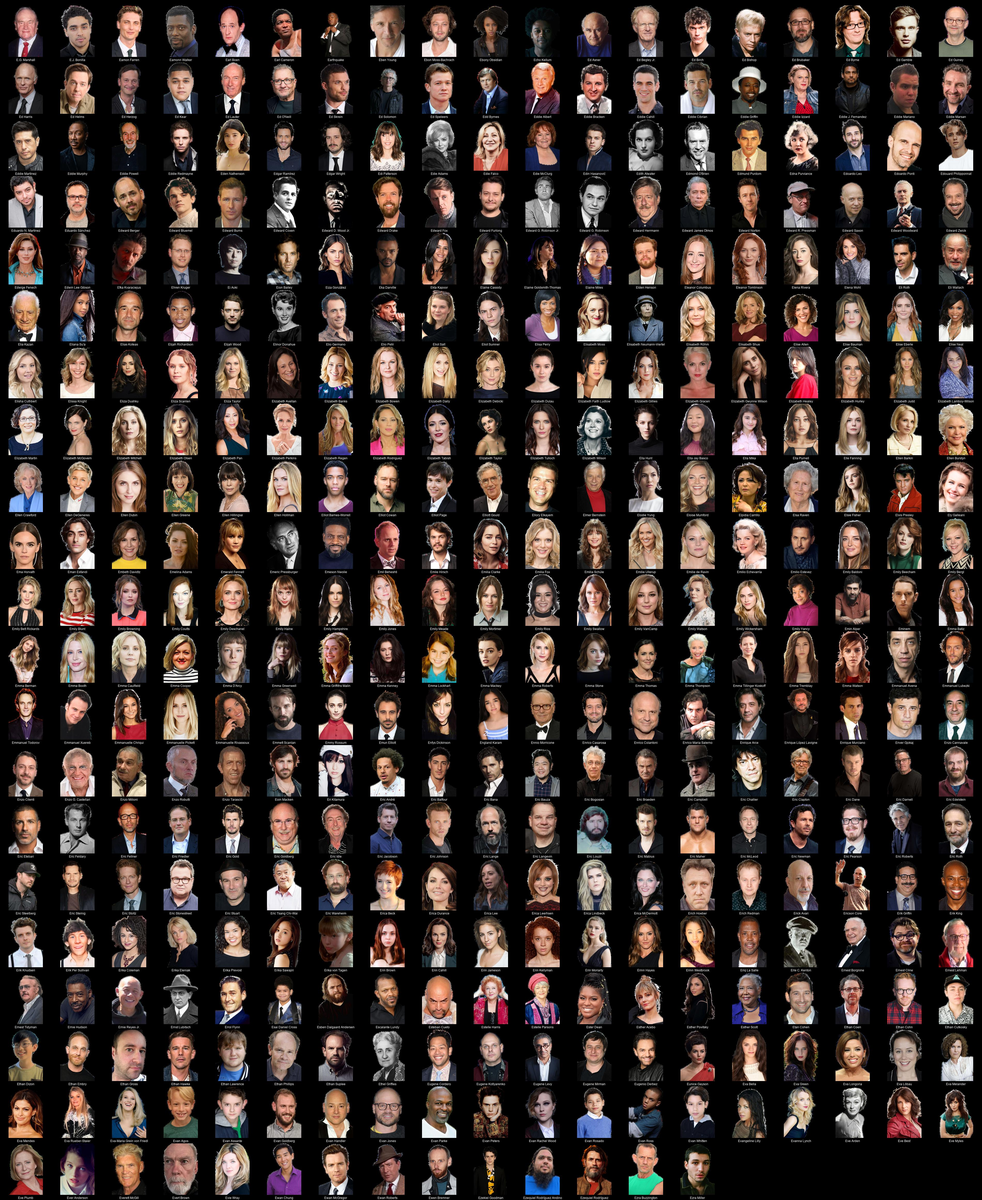
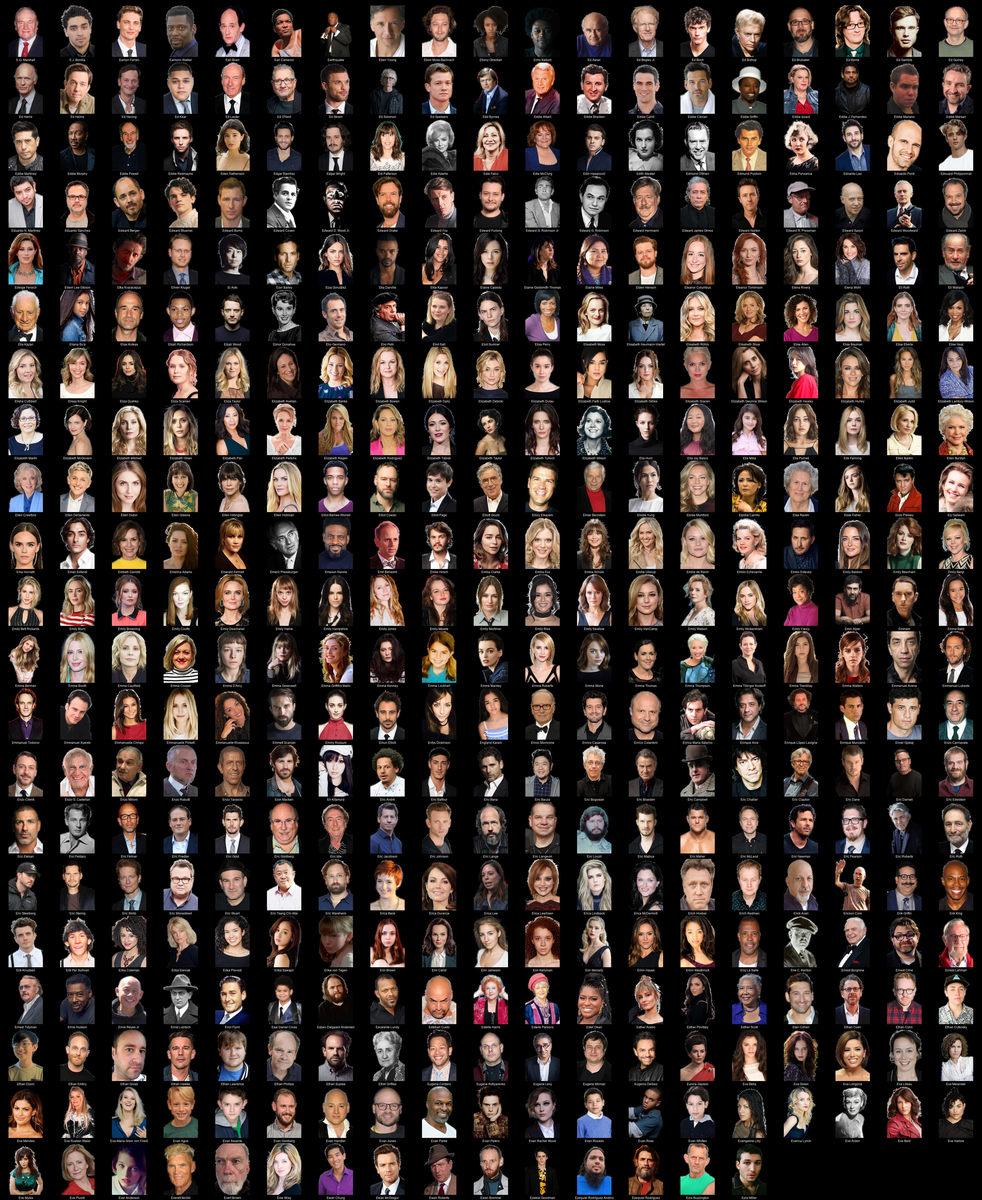
more peeps

Changed region(s): [[0.0, 0.9375, 0.7763, 1.0], [0.9626, 0.9062, 0.9937, 0.9688]]

diff --git a/README.md b/README.md
@@ -1,4 +1,4 @@
-# Kometa People Images - Transparent (transparent) (11014 Images)
+# Kometa People Images - Transparent (transparent) (11024 Images)
 
 <details><summary><a href="'">' (1 Images)</a></summary>
 
@@ -904,7 +904,7 @@
 * [Azhar Usman](https://raw.githubusercontent.com/Kometa-Team/People-Images-transparent/master/A/Images/Azhar%20Usman.png)
 * [Aziz Ansari](https://raw.githubusercontent.com/Kometa-Team/People-Images-transparent/master/A/Images/Aziz%20Ansari.png)
 </details>
-<details><summary><a href="B">B (552 Images)</a></summary>
+<details><summary><a href="B">B (553 Images)</a></summary>
 
 * [B.F. Blinn](https://raw.githubusercontent.com/Kometa-Team/People-Images-transparent/master/B/Images/B.F.%20Blinn.png)
 * [B.J. Penn](https://raw.githubusercontent.com/Kometa-Team/People-Images-transparent/master/B/Images/B.J.%20Penn.png)
@@ -967,6 +967,7 @@
 * [Barry Sloane](https://raw.githubusercontent.com/Kometa-Team/People-Images-transparent/master/B/Images/Barry%20Sloane.png)
 * [Barry Sonnenfeld](https://raw.githubusercontent.com/Kometa-Team/People-Images-transparent/master/B/Images/Barry%20Sonnenfeld.png)
 * [Barry Watson](https://raw.githubusercontent.com/Kometa-Team/People-Images-transparent/master/B/Images/Barry%20Watson.png)
+* [Barry Williams](https://raw.githubusercontent.com/Kometa-Team/People-Images-transparent/master/B/Images/Barry%20Williams.png)
 * [Bashir Salahuddin](https://raw.githubusercontent.com/Kometa-Team/People-Images-transparent/master/B/Images/Bashir%20Salahuddin.png)
 * [Basil Iwanyk](https://raw.githubusercontent.com/Kometa-Team/People-Images-transparent/master/B/Images/Basil%20Iwanyk.png)
 * [Basil Rathbone](https://raw.githubusercontent.com/Kometa-Team/People-Images-transparent/master/B/Images/Basil%20Rathbone.png)
@@ -1459,7 +1460,7 @@
 * [Béla Tarr](https://raw.githubusercontent.com/Kometa-Team/People-Images-transparent/master/B/Images/B%C3%A9la%20Tarr.png)
 * [Bérénice Bejo](https://raw.githubusercontent.com/Kometa-Team/People-Images-transparent/master/B/Images/B%C3%A9r%C3%A9nice%20Bejo.png)
 </details>
-<details><summary><a href="C">C (704 Images)</a></summary>
+<details><summary><a href="C">C (705 Images)</a></summary>
 
 * [C. Robert Cargill](https://raw.githubusercontent.com/Kometa-Team/People-Images-transparent/master/C/Images/C.%20Robert%20Cargill.png)
 * [C. S. Forester](https://raw.githubusercontent.com/Kometa-Team/People-Images-transparent/master/C/Images/C.%20S.%20Forester.png)
@@ -2150,6 +2151,7 @@
 * [Cristela Alonzo](https://raw.githubusercontent.com/Kometa-Team/People-Images-transparent/master/C/Images/Cristela%20Alonzo.png)
 * [Cristen Kauffman](https://raw.githubusercontent.com/Kometa-Team/People-Images-transparent/master/C/Images/Cristen%20Kauffman.png)
 * [Cristian Mungiu](https://raw.githubusercontent.com/Kometa-Team/People-Images-transparent/master/C/Images/Cristian%20Mungiu.png)
+* [Cristie Whiles](https://raw.githubusercontent.com/Kometa-Team/People-Images-transparent/master/C/Images/Cristie%20Whiles.png)
 * [Cristin Milioti](https://raw.githubusercontent.com/Kometa-Team/People-Images-transparent/master/C/Images/Cristin%20Milioti.png)
 * [Cristina Rodlo](https://raw.githubusercontent.com/Kometa-Team/People-Images-transparent/master/C/Images/Cristina%20Rodlo.png)
 * [Cristo Fernández](https://raw.githubusercontent.com/Kometa-Team/People-Images-transparent/master/C/Images/Cristo%20Fern%C3%A1ndez.png)
@@ -4284,7 +4286,7 @@
 * [Izaac Wang](https://raw.githubusercontent.com/Kometa-Team/People-Images-transparent/master/I/Images/Izaac%20Wang.png)
 * [Izabella Scorupco](https://raw.githubusercontent.com/Kometa-Team/People-Images-transparent/master/I/Images/Izabella%20Scorupco.png)
 </details>
-<details><summary><a href="J">J (1349 Images)</a></summary>
+<details><summary><a href="J">J (1350 Images)</a></summary>
 
 * [J'Dvonte](https://raw.githubusercontent.com/Kometa-Team/People-Images-transparent/master/J/Images/J%27Dvonte.png)
 * [J. A. Bayona](https://raw.githubusercontent.com/Kometa-Team/People-Images-transparent/master/J/Images/J.%20A.%20Bayona.png)
@@ -4806,6 +4808,7 @@
 * [Jenson Button](https://raw.githubusercontent.com/Kometa-Team/People-Images-transparent/master/J/Images/Jenson%20Button.png)
 * [Jenson Cheng](https://raw.githubusercontent.com/Kometa-Team/People-Images-transparent/master/J/Images/Jenson%20Cheng.png)
 * [Jeon Eun-jin](https://raw.githubusercontent.com/Kometa-Team/People-Images-transparent/master/J/Images/Jeon%20Eun-jin.png)
+* [Jerami Cruise](https://raw.githubusercontent.com/Kometa-Team/People-Images-transparent/master/J/Images/Jerami%20Cruise.png)
 * [Jeremiah Bitsui](https://raw.githubusercontent.com/Kometa-Team/People-Images-transparent/master/J/Images/Jeremiah%20Bitsui.png)
 * [Jeremy Allen White](https://raw.githubusercontent.com/Kometa-Team/People-Images-transparent/master/J/Images/Jeremy%20Allen%20White.png)
 * [Jeremy Bulloch](https://raw.githubusercontent.com/Kometa-Team/People-Images-transparent/master/J/Images/Jeremy%20Bulloch.png)
@@ -6668,7 +6671,7 @@
 * [Léa Seydoux](https://raw.githubusercontent.com/Kometa-Team/People-Images-transparent/master/L/Images/L%C3%A9a%20Seydoux.png)
 * [Lúcio Andrey](https://raw.githubusercontent.com/Kometa-Team/People-Images-transparent/master/L/Images/L%C3%BAcio%20Andrey.png)
 </details>
-<details><summary><a href="M">M (1034 Images)</a></summary>
+<details><summary><a href="M">M (1037 Images)</a></summary>
 
 * [M'laah Kaur Singh](https://raw.githubusercontent.com/Kometa-Team/People-Images-transparent/master/M/Images/M%27laah%20Kaur%20Singh.png)
 * [M. Emmet Walsh](https://raw.githubusercontent.com/Kometa-Team/People-Images-transparent/master/M/Images/M.%20Emmet%20Walsh.png)
@@ -6846,6 +6849,7 @@
 * [Maria Howell](https://raw.githubusercontent.com/Kometa-Team/People-Images-transparent/master/M/Images/Maria%20Howell.png)
 * [Maria Thayer](https://raw.githubusercontent.com/Kometa-Team/People-Images-transparent/master/M/Images/Maria%20Thayer.png)
 * [Mariah Carey](https://raw.githubusercontent.com/Kometa-Team/People-Images-transparent/master/M/Images/Mariah%20Carey.png)
+* [Marian Dora](https://raw.githubusercontent.com/Kometa-Team/People-Images-transparent/master/M/Images/Marian%20Dora.png)
 * [Marian Lorencik](https://raw.githubusercontent.com/Kometa-Team/People-Images-transparent/master/M/Images/Marian%20Lorencik.png)
 * [Mariana Mazza](https://raw.githubusercontent.com/Kometa-Team/People-Images-transparent/master/M/Images/Mariana%20Mazza.png)
 * [Mariangela Giordano](https://raw.githubusercontent.com/Kometa-Team/People-Images-transparent/master/M/Images/Mariangela%20Giordano.png)
@@ -7163,6 +7167,7 @@
 * [Maude Apatow](https://raw.githubusercontent.com/Kometa-Team/People-Images-transparent/master/M/Images/Maude%20Apatow.png)
 * [Maulik Pancholy](https://raw.githubusercontent.com/Kometa-Team/People-Images-transparent/master/M/Images/Maulik%20Pancholy.png)
 * [Maura Tierney](https://raw.githubusercontent.com/Kometa-Team/People-Images-transparent/master/M/Images/Maura%20Tierney.png)
+* [Maureen McCormick](https://raw.githubusercontent.com/Kometa-Team/People-Images-transparent/master/M/Images/Maureen%20McCormick.png)
 * [Maureen Van Zandt](https://raw.githubusercontent.com/Kometa-Team/People-Images-transparent/master/M/Images/Maureen%20Van%20Zandt.png)
 * [Maurice Compte](https://raw.githubusercontent.com/Kometa-Team/People-Images-transparent/master/M/Images/Maurice%20Compte.png)
 * [Maurice Jarre](https://raw.githubusercontent.com/Kometa-Team/People-Images-transparent/master/M/Images/Maurice%20Jarre.png)
@@ -7555,6 +7560,7 @@
 * [Mike Kellin](https://raw.githubusercontent.com/Kometa-Team/People-Images-transparent/master/M/Images/Mike%20Kellin.png)
 * [Mike Leigh](https://raw.githubusercontent.com/Kometa-Team/People-Images-transparent/master/M/Images/Mike%20Leigh.png)
 * [Mike Lockwood](https://raw.githubusercontent.com/Kometa-Team/People-Images-transparent/master/M/Images/Mike%20Lockwood.png)
+* [Mike Lookinland](https://raw.githubusercontent.com/Kometa-Team/People-Images-transparent/master/M/Images/Mike%20Lookinland.png)
 * [Mike Mitchell](https://raw.githubusercontent.com/Kometa-Team/People-Images-transparent/master/M/Images/Mike%20Mitchell.png)
 * [Mike Myers](https://raw.githubusercontent.com/Kometa-Team/People-Images-transparent/master/M/Images/Mike%20Myers.png)
 * [Mike Müller](https://raw.githubusercontent.com/Kometa-Team/People-Images-transparent/master/M/Images/Mike%20M%C3%BCller.png)
@@ -9247,7 +9253,7 @@
 * [Ryusei Nakao](https://raw.githubusercontent.com/Kometa-Team/People-Images-transparent/master/R/Images/Ryusei%20Nakao.png)
 * [Ryusuke Hamaguchi](https://raw.githubusercontent.com/Kometa-Team/People-Images-transparent/master/R/Images/Ryusuke%20Hamaguchi.png)
 </details>
-<details><summary><a href="S">S (782 Images)</a></summary>
+<details><summary><a href="S">S (785 Images)</a></summary>
 
 * [S. S. Rajamouli](https://raw.githubusercontent.com/Kometa-Team/People-Images-transparent/master/S/Images/S.%20S.%20Rajamouli.png)
 * [Saagar Shaikh](https://raw.githubusercontent.com/Kometa-Team/People-Images-transparent/master/S/Images/Saagar%20Shaikh.png)
@@ -9840,6 +9846,7 @@
 * [Steno](https://raw.githubusercontent.com/Kometa-Team/People-Images-transparent/master/S/Images/Steno.png)
 * [Stephan Kampwirth](https://raw.githubusercontent.com/Kometa-Team/People-Images-transparent/master/S/Images/Stephan%20Kampwirth.png)
 * [Stephanie Beatriz](https://raw.githubusercontent.com/Kometa-Team/People-Images-transparent/master/S/Images/Stephanie%20Beatriz.png)
+* [Stephanie Cole](https://raw.githubusercontent.com/Kometa-Team/People-Images-transparent/master/S/Images/Stephanie%20Cole.png)
 * [Stephanie Corneliussen](https://raw.githubusercontent.com/Kometa-Team/People-Images-transparent/master/S/Images/Stephanie%20Corneliussen.png)
 * [Stephanie Czajkowski](https://raw.githubusercontent.com/Kometa-Team/People-Images-transparent/master/S/Images/Stephanie%20Czajkowski.png)
 * [Stephanie Hsu](https://raw.githubusercontent.com/Kometa-Team/People-Images-transparent/master/S/Images/Stephanie%20Hsu.png)
@@ -9985,11 +9992,13 @@
 * [Supriya Shukla](https://raw.githubusercontent.com/Kometa-Team/People-Images-transparent/master/S/Images/Supriya%20Shukla.png)
 * [Suraj Sharma](https://raw.githubusercontent.com/Kometa-Team/People-Images-transparent/master/S/Images/Suraj%20Sharma.png)
 * [Suranne Jones](https://raw.githubusercontent.com/Kometa-Team/People-Images-transparent/master/S/Images/Suranne%20Jones.png)
+* [Susan A. Olsen](https://raw.githubusercontent.com/Kometa-Team/People-Images-transparent/master/S/Images/Susan%20A.%20Olsen.png)
 * [Susan Beaubian](https://raw.githubusercontent.com/Kometa-Team/People-Images-transparent/master/S/Images/Susan%20Beaubian.png)
 * [Susan Downey](https://raw.githubusercontent.com/Kometa-Team/People-Images-transparent/master/S/Images/Susan%20Downey.png)
 * [Susan Kelechi Watson](https://raw.githubusercontent.com/Kometa-Team/People-Images-transparent/master/S/Images/Susan%20Kelechi%20Watson.png)
 * [Susan Luckey](https://raw.githubusercontent.com/Kometa-Team/People-Images-transparent/master/S/Images/Susan%20Luckey.png)
 * [Susan Lynch](https://raw.githubusercontent.com/Kometa-Team/People-Images-transparent/master/S/Images/Susan%20Lynch.png)
+* [Susan Olsen](https://raw.githubusercontent.com/Kometa-Team/People-Images-transparent/master/S/Images/Susan%20Olsen.png)
 * [Susan Sarandon](https://raw.githubusercontent.com/Kometa-Team/People-Images-transparent/master/S/Images/Susan%20Sarandon.png)
 * [Susan Traylor](https://raw.githubusercontent.com/Kometa-Team/People-Images-transparent/master/S/Images/Susan%20Traylor.png)
 * [Susan Ward](https://raw.githubusercontent.com/Kometa-Team/People-Images-transparent/master/S/Images/Susan%20Ward.png)
@@ -10725,7 +10734,7 @@
 * [Von Lewis](https://raw.githubusercontent.com/Kometa-Team/People-Images-transparent/master/V/Images/Von%20Lewis.png)
 * [Věra Chytilová](https://raw.githubusercontent.com/Kometa-Team/People-Images-transparent/master/V/Images/V%C4%9Bra%20Chytilov%C3%A1.png)
 </details>
-<details><summary><a href="W">W (192 Images)</a></summary>
+<details><summary><a href="W">W (193 Images)</a></summary>
 
 * [W. Bruce Cameron](https://raw.githubusercontent.com/Kometa-Team/People-Images-transparent/master/W/Images/W.%20Bruce%20Cameron.png)
 * [W. Earl Brown](https://raw.githubusercontent.com/Kometa-Team/People-Images-transparent/master/W/Images/W.%20Earl%20Brown.png)
@@ -10829,6 +10838,7 @@
 * [Willard Huyck](https://raw.githubusercontent.com/Kometa-Team/People-Images-transparent/master/W/Images/Willard%20Huyck.png)
 * [Willeke van Ammelrooy](https://raw.githubusercontent.com/Kometa-Team/People-Images-transparent/master/W/Images/Willeke%20van%20Ammelrooy.png)
 * [Willem Dafoe](https://raw.githubusercontent.com/Kometa-Team/People-Images-transparent/master/W/Images/Willem%20Dafoe.png)
+* [Willi Ninja](https://raw.githubusercontent.com/Kometa-Team/People-Images-transparent/master/W/Images/Willi%20Ninja.png)
 * [William 'Billy' Costello](https://raw.githubusercontent.com/Kometa-Team/People-Images-transparent/master/W/Images/William%20%27Billy%27%20Costello.png)
 * [William A. Seiter](https://raw.githubusercontent.com/Kometa-Team/People-Images-transparent/master/W/Images/William%20A.%20Seiter.png)
 * [William A. Wellman](https://raw.githubusercontent.com/Kometa-Team/People-Images-transparent/master/W/Images/William%20A.%20Wellman.png)

diff --git a/J/README.md b/J/README.md
@@ -1,4 +1,4 @@
-# Kometa People Images - Transparent (transparent) - J (1350 Images)
+# Kometa People Images - Transparent (transparent) - J (1356 Images)
 ![Grid](grid.jpg)
 
 * [J'Dvonte](https://raw.githubusercontent.com/Kometa-Team/People-Images-transparent/master/J/Images/J%27Dvonte.png)
@@ -230,6 +230,7 @@
 * [Jamie Chung](https://raw.githubusercontent.com/Kometa-Team/People-Images-transparent/master/J/Images/Jamie%20Chung.png)
 * [Jamie Demetriou](https://raw.githubusercontent.com/Kometa-Team/People-Images-transparent/master/J/Images/Jamie%20Demetriou.png)
 * [Jamie Foxx](https://raw.githubusercontent.com/Kometa-Team/People-Images-transparent/master/J/Images/Jamie%20Foxx.png)
+* [Jamie Goehring](https://raw.githubusercontent.com/Kometa-Team/People-Images-transparent/master/J/Images/Jamie%20Goehring.png)
 * [Jamie Hector](https://raw.githubusercontent.com/Kometa-Team/People-Images-transparent/master/J/Images/Jamie%20Hector.png)
 * [Jamie Kennedy](https://raw.githubusercontent.com/Kometa-Team/People-Images-transparent/master/J/Images/Jamie%20Kennedy.png)
 * [Jamie Lee Curtis](https://raw.githubusercontent.com/Kometa-Team/People-Images-transparent/master/J/Images/Jamie%20Lee%20Curtis.png)
@@ -998,6 +999,7 @@
 * [Johnathon Schaech](https://raw.githubusercontent.com/Kometa-Team/People-Images-transparent/master/J/Images/Johnathon%20Schaech.png)
 * [Johnnie To](https://raw.githubusercontent.com/Kometa-Team/People-Images-transparent/master/J/Images/Johnnie%20To.png)
 * [Johnny 'Bananas' Devenanzio](https://raw.githubusercontent.com/Kometa-Team/People-Images-transparent/master/J/Images/Johnny%20%27Bananas%27%20Devenanzio.png)
+* [Johnny Bennett](https://raw.githubusercontent.com/Kometa-Team/People-Images-transparent/master/J/Images/Johnny%20Bennett.png)
 * [Johnny Cash](https://raw.githubusercontent.com/Kometa-Team/People-Images-transparent/master/J/Images/Johnny%20Cash.png)
 * [Johnny Depp](https://raw.githubusercontent.com/Kometa-Team/People-Images-transparent/master/J/Images/Johnny%20Depp.png)
 * [Johnny Flynn](https://raw.githubusercontent.com/Kometa-Team/People-Images-transparent/master/J/Images/Johnny%20Flynn.png)
@@ -1057,6 +1059,7 @@
 * [Jonathan Aris](https://raw.githubusercontent.com/Kometa-Team/People-Images-transparent/master/J/Images/Jonathan%20Aris.png)
 * [Jonathan Bailey](https://raw.githubusercontent.com/Kometa-Team/People-Images-transparent/master/J/Images/Jonathan%20Bailey.png)
 * [Jonathan Banks](https://raw.githubusercontent.com/Kometa-Team/People-Images-transparent/master/J/Images/Jonathan%20Banks.png)
+* [Jonathan Bennett](https://raw.githubusercontent.com/Kometa-Team/People-Images-transparent/master/J/Images/Jonathan%20Bennett.png)
 * [Jonathan Cheung Wing-Hong](https://raw.githubusercontent.com/Kometa-Team/People-Images-transparent/master/J/Images/Jonathan%20Cheung%20Wing-Hong.png)
 * [Jonathan Coy](https://raw.githubusercontent.com/Kometa-Team/People-Images-transparent/master/J/Images/Jonathan%20Coy.png)
 * [Jonathan D Bergman](https://raw.githubusercontent.com/Kometa-Team/People-Images-transparent/master/J/Images/Jonathan%20D%20Bergman.png)
@@ -1099,6 +1102,7 @@
 * [Jonny Coyne](https://raw.githubusercontent.com/Kometa-Team/People-Images-transparent/master/J/Images/Jonny%20Coyne.png)
 * [Jonny Lavelle](https://raw.githubusercontent.com/Kometa-Team/People-Images-transparent/master/J/Images/Jonny%20Lavelle.png)
 * [Jonny Lee Miller](https://raw.githubusercontent.com/Kometa-Team/People-Images-transparent/master/J/Images/Jonny%20Lee%20Miller.png)
+* [Jono Bennett](https://raw.githubusercontent.com/Kometa-Team/People-Images-transparent/master/J/Images/Jono%20Bennett.png)
 * [Joo Min-kyung](https://raw.githubusercontent.com/Kometa-Team/People-Images-transparent/master/J/Images/Joo%20Min-kyung.png)
 * [Joonas Suotamo](https://raw.githubusercontent.com/Kometa-Team/People-Images-transparent/master/J/Images/Joonas%20Suotamo.png)
 * [Jordan A. Nash](https://raw.githubusercontent.com/Kometa-Team/People-Images-transparent/master/J/Images/Jordan%20A.%20Nash.png)
@@ -1281,10 +1285,12 @@
 * [Julie Christie](https://raw.githubusercontent.com/Kometa-Team/People-Images-transparent/master/J/Images/Julie%20Christie.png)
 * [Julie Delpy](https://raw.githubusercontent.com/Kometa-Team/People-Images-transparent/master/J/Images/Julie%20Delpy.png)
 * [Julie Dreyfus](https://raw.githubusercontent.com/Kometa-Team/People-Images-transparent/master/J/Images/Julie%20Dreyfus.png)
+* [Julie Gonzalo](https://raw.githubusercontent.com/Kometa-Team/People-Images-transparent/master/J/Images/Julie%20Gonzalo.png)
 * [Julie Graham](https://raw.githubusercontent.com/Kometa-Team/People-Images-transparent/master/J/Images/Julie%20Graham.png)
 * [Julie Lynn](https://raw.githubusercontent.com/Kometa-Team/People-Images-transparent/master/J/Images/Julie%20Lynn.png)
 * [Julie Mintz](https://raw.githubusercontent.com/Kometa-Team/People-Images-transparent/master/J/Images/Julie%20Mintz.png)
 * [Julie Nathanson](https://raw.githubusercontent.com/Kometa-Team/People-Images-transparent/master/J/Images/Julie%20Nathanson.png)
+* [Julie Sherman Wolfe](https://raw.githubusercontent.com/Kometa-Team/People-Images-transparent/master/J/Images/Julie%20Sherman%20Wolfe.png)
 * [Julie Walters](https://raw.githubusercontent.com/Kometa-Team/People-Images-transparent/master/J/Images/Julie%20Walters.png)
 * [Juliet Rylance](https://raw.githubusercontent.com/Kometa-Team/People-Images-transparent/master/J/Images/Juliet%20Rylance.png)
 * [Juliet Stevenson](https://raw.githubusercontent.com/Kometa-Team/People-Images-transparent/master/J/Images/Juliet%20Stevenson.png)

diff --git a/S/README.md b/S/README.md
@@ -1,4 +1,4 @@
-# Kometa People Images - Transparent (transparent) - S (782 Images)
+# Kometa People Images - Transparent (transparent) - S (785 Images)
 ![Grid](grid.jpg)
 
 * [S. S. Rajamouli](https://raw.githubusercontent.com/Kometa-Team/People-Images-transparent/master/S/Images/S.%20S.%20Rajamouli.png)
@@ -592,6 +592,7 @@
 * [Steno](https://raw.githubusercontent.com/Kometa-Team/People-Images-transparent/master/S/Images/Steno.png)
 * [Stephan Kampwirth](https://raw.githubusercontent.com/Kometa-Team/People-Images-transparent/master/S/Images/Stephan%20Kampwirth.png)
 * [Stephanie Beatriz](https://raw.githubusercontent.com/Kometa-Team/People-Images-transparent/master/S/Images/Stephanie%20Beatriz.png)
+* [Stephanie Cole](https://raw.githubusercontent.com/Kometa-Team/People-Images-transparent/master/S/Images/Stephanie%20Cole.png)
 * [Stephanie Corneliussen](https://raw.githubusercontent.com/Kometa-Team/People-Images-transparent/master/S/Images/Stephanie%20Corneliussen.png)
 * [Stephanie Czajkowski](https://raw.githubusercontent.com/Kometa-Team/People-Images-transparent/master/S/Images/Stephanie%20Czajkowski.png)
 * [Stephanie Hsu](https://raw.githubusercontent.com/Kometa-Team/People-Images-transparent/master/S/Images/Stephanie%20Hsu.png)
@@ -737,11 +738,13 @@
 * [Supriya Shukla](https://raw.githubusercontent.com/Kometa-Team/People-Images-transparent/master/S/Images/Supriya%20Shukla.png)
 * [Suraj Sharma](https://raw.githubusercontent.com/Kometa-Team/People-Images-transparent/master/S/Images/Suraj%20Sharma.png)
 * [Suranne Jones](https://raw.githubusercontent.com/Kometa-Team/People-Images-transparent/master/S/Images/Suranne%20Jones.png)
+* [Susan A. Olsen](https://raw.githubusercontent.com/Kometa-Team/People-Images-transparent/master/S/Images/Susan%20A.%20Olsen.png)
 * [Susan Beaubian](https://raw.githubusercontent.com/Kometa-Team/People-Images-transparent/master/S/Images/Susan%20Beaubian.png)
 * [Susan Downey](https://raw.githubusercontent.com/Kometa-Team/People-Images-transparent/master/S/Images/Susan%20Downey.png)
 * [Susan Kelechi Watson](https://raw.githubusercontent.com/Kometa-Team/People-Images-transparent/master/S/Images/Susan%20Kelechi%20Watson.png)
 * [Susan Luckey](https://raw.githubusercontent.com/Kometa-Team/People-Images-transparent/master/S/Images/Susan%20Luckey.png)
 * [Susan Lynch](https://raw.githubusercontent.com/Kometa-Team/People-Images-transparent/master/S/Images/Susan%20Lynch.png)
+* [Susan Olsen](https://raw.githubusercontent.com/Kometa-Team/People-Images-transparent/master/S/Images/Susan%20Olsen.png)
 * [Susan Sarandon](https://raw.githubusercontent.com/Kometa-Team/People-Images-transparent/master/S/Images/Susan%20Sarandon.png)
 * [Susan Traylor](https://raw.githubusercontent.com/Kometa-Team/People-Images-transparent/master/S/Images/Susan%20Traylor.png)
 * [Susan Ward](https://raw.githubusercontent.com/Kometa-Team/People-Images-transparent/master/S/Images/Susan%20Ward.png)

diff --git a/C/README.md b/C/README.md
@@ -1,4 +1,4 @@
-# Kometa People Images - Transparent (transparent) - C (705 Images)
+# Kometa People Images - Transparent (transparent) - C (707 Images)
 ![Grid](grid.jpg)
 
 * [C. Robert Cargill](https://raw.githubusercontent.com/Kometa-Team/People-Images-transparent/master/C/Images/C.%20Robert%20Cargill.png)
@@ -398,6 +398,7 @@
 * [Chris Williams](https://raw.githubusercontent.com/Kometa-Team/People-Images-transparent/master/C/Images/Chris%20Williams.png)
 * [Chris Wood](https://raw.githubusercontent.com/Kometa-Team/People-Images-transparent/master/C/Images/Chris%20Wood.png)
 * [Chris van Allsburg](https://raw.githubusercontent.com/Kometa-Team/People-Images-transparent/master/C/Images/Chris%20van%20Allsburg.png)
+* [Christi Wolf](https://raw.githubusercontent.com/Kometa-Team/People-Images-transparent/master/C/Images/Christi%20Wolf.png)
 * [Christian Alvart](https://raw.githubusercontent.com/Kometa-Team/People-Images-transparent/master/C/Images/Christian%20Alvart.png)
 * [Christian Bale](https://raw.githubusercontent.com/Kometa-Team/People-Images-transparent/master/C/Images/Christian%20Bale.png)
 * [Christian Clavier](https://raw.githubusercontent.com/Kometa-Team/People-Images-transparent/master/C/Images/Christian%20Clavier.png)
@@ -416,6 +417,7 @@
 * [Christiane Seidel](https://raw.githubusercontent.com/Kometa-Team/People-Images-transparent/master/C/Images/Christiane%20Seidel.png)
 * [Christie Laing](https://raw.githubusercontent.com/Kometa-Team/People-Images-transparent/master/C/Images/Christie%20Laing.png)
 * [Christie Smith](https://raw.githubusercontent.com/Kometa-Team/People-Images-transparent/master/C/Images/Christie%20Smith.png)
+* [Christie Will Wolf](https://raw.githubusercontent.com/Kometa-Team/People-Images-transparent/master/C/Images/Christie%20Will%20Wolf.png)
 * [Christie Will](https://raw.githubusercontent.com/Kometa-Team/People-Images-transparent/master/C/Images/Christie%20Will.png)
 * [Christina Aguilera](https://raw.githubusercontent.com/Kometa-Team/People-Images-transparent/master/C/Images/Christina%20Aguilera.png)
 * [Christina Alexandra Voros](https://raw.githubusercontent.com/Kometa-Team/People-Images-transparent/master/C/Images/Christina%20Alexandra%20Voros.png)

diff --git a/A/README.md b/A/README.md
@@ -1,4 +1,4 @@
-# Kometa People Images - Transparent (transparent) - A (897 Images)
+# Kometa People Images - Transparent (transparent) - A (899 Images)
 ![Grid](grid.jpg)
 
 * [A. Edward Sutherland](https://raw.githubusercontent.com/Kometa-Team/People-Images-transparent/master/A/Images/A.%20Edward%20Sutherland.png)
@@ -676,6 +676,7 @@
 * [Annouck Hautbois](https://raw.githubusercontent.com/Kometa-Team/People-Images-transparent/master/A/Images/Annouck%20Hautbois.png)
 * [Anouk Aimée](https://raw.githubusercontent.com/Kometa-Team/People-Images-transparent/master/A/Images/Anouk%20Aim%C3%A9e.png)
 * [Anouk Christiansen](https://raw.githubusercontent.com/Kometa-Team/People-Images-transparent/master/A/Images/Anouk%20Christiansen.png)
+* [Ansley Gordon](https://raw.githubusercontent.com/Kometa-Team/People-Images-transparent/master/A/Images/Ansley%20Gordon.png)
 * [Anson Mount](https://raw.githubusercontent.com/Kometa-Team/People-Images-transparent/master/A/Images/Anson%20Mount.png)
 * [Anthony Anderson](https://raw.githubusercontent.com/Kometa-Team/People-Images-transparent/master/A/Images/Anthony%20Anderson.png)
 * [Anthony Andrews](https://raw.githubusercontent.com/Kometa-Team/People-Images-transparent/master/A/Images/Anthony%20Andrews.png)
@@ -824,6 +825,7 @@
 * [Ashley Judd](https://raw.githubusercontent.com/Kometa-Team/People-Images-transparent/master/A/Images/Ashley%20Judd.png)
 * [Ashley Madekwe](https://raw.githubusercontent.com/Kometa-Team/People-Images-transparent/master/A/Images/Ashley%20Madekwe.png)
 * [Ashley McGuire](https://raw.githubusercontent.com/Kometa-Team/People-Images-transparent/master/A/Images/Ashley%20McGuire.png)
+* [Ashley Newbrough](https://raw.githubusercontent.com/Kometa-Team/People-Images-transparent/master/A/Images/Ashley%20Newbrough.png)
 * [Ashley Thomas](https://raw.githubusercontent.com/Kometa-Team/People-Images-transparent/master/A/Images/Ashley%20Thomas.png)
 * [Ashley Walters](https://raw.githubusercontent.com/Kometa-Team/People-Images-transparent/master/A/Images/Ashley%20Walters.png)
 * [Ashley Williams](https://raw.githubusercontent.com/Kometa-Team/People-Images-transparent/master/A/Images/Ashley%20Williams.png)

diff --git a/B/README.md b/B/README.md
@@ -1,4 +1,4 @@
-# Kometa People Images - Transparent (transparent) - B (553 Images)
+# Kometa People Images - Transparent (transparent) - B (555 Images)
 ![Grid](grid.jpg)
 
 * [B.F. Blinn](https://raw.githubusercontent.com/Kometa-Team/People-Images-transparent/master/B/Images/B.F.%20Blinn.png)
@@ -28,6 +28,7 @@
 * [Barbara De Fina](https://raw.githubusercontent.com/Kometa-Team/People-Images-transparent/master/B/Images/Barbara%20De%20Fina.png)
 * [Barbara Eve Harris](https://raw.githubusercontent.com/Kometa-Team/People-Images-transparent/master/B/Images/Barbara%20Eve%20Harris.png)
 * [Barbara Hershey](https://raw.githubusercontent.com/Kometa-Team/People-Images-transparent/master/B/Images/Barbara%20Hershey.png)
+* [Barbara Kymlicka](https://raw.githubusercontent.com/Kometa-Team/People-Images-transparent/master/B/Images/Barbara%20Kymlicka.png)
 * [Barbara Luddy](https://raw.githubusercontent.com/Kometa-Team/People-Images-transparent/master/B/Images/Barbara%20Luddy.png)
 * [Barbara Magnolfi](https://raw.githubusercontent.com/Kometa-Team/People-Images-transparent/master/B/Images/Barbara%20Magnolfi.png)
 * [Barbara Niven](https://raw.githubusercontent.com/Kometa-Team/People-Images-transparent/master/B/Images/Barbara%20Niven.png)
@@ -407,6 +408,7 @@
 * [Brett Rice](https://raw.githubusercontent.com/Kometa-Team/People-Images-transparent/master/B/Images/Brett%20Rice.png)
 * [Brett Tucker](https://raw.githubusercontent.com/Kometa-Team/People-Images-transparent/master/B/Images/Brett%20Tucker.png)
 * [Brian Austin Green](https://raw.githubusercontent.com/Kometa-Team/People-Images-transparent/master/B/Images/Brian%20Austin%20Green.png)
+* [Brian Brough](https://raw.githubusercontent.com/Kometa-Team/People-Images-transparent/master/B/Images/Brian%20Brough.png)
 * [Brian Cox](https://raw.githubusercontent.com/Kometa-Team/People-Images-transparent/master/B/Images/Brian%20Cox.png)
 * [Brian De Palma](https://raw.githubusercontent.com/Kometa-Team/People-Images-transparent/master/B/Images/Brian%20De%20Palma.png)
 * [Brian Delate](https://raw.githubusercontent.com/Kometa-Team/People-Images-transparent/master/B/Images/Brian%20Delate.png)

diff --git a/W/README.md b/W/README.md
@@ -1,4 +1,4 @@
-# Kometa People Images - Transparent (transparent) - W (192 Images)
+# Kometa People Images - Transparent (transparent) - W (193 Images)
 ![Grid](grid.jpg)
 
 * [W. Bruce Cameron](https://raw.githubusercontent.com/Kometa-Team/People-Images-transparent/master/W/Images/W.%20Bruce%20Cameron.png)
@@ -103,6 +103,7 @@
 * [Willard Huyck](https://raw.githubusercontent.com/Kometa-Team/People-Images-transparent/master/W/Images/Willard%20Huyck.png)
 * [Willeke van Ammelrooy](https://raw.githubusercontent.com/Kometa-Team/People-Images-transparent/master/W/Images/Willeke%20van%20Ammelrooy.png)
 * [Willem Dafoe](https://raw.githubusercontent.com/Kometa-Team/People-Images-transparent/master/W/Images/Willem%20Dafoe.png)
+* [Willi Ninja](https://raw.githubusercontent.com/Kometa-Team/People-Images-transparent/master/W/Images/Willi%20Ninja.png)
 * [William 'Billy' Costello](https://raw.githubusercontent.com/Kometa-Team/People-Images-transparent/master/W/Images/William%20%27Billy%27%20Costello.png)
 * [William A. Seiter](https://raw.githubusercontent.com/Kometa-Team/People-Images-transparent/master/W/Images/William%20A.%20Seiter.png)
 * [William A. Wellman](https://raw.githubusercontent.com/Kometa-Team/People-Images-transparent/master/W/Images/William%20A.%20Wellman.png)

diff --git a/M/README.md b/M/README.md
@@ -1,4 +1,4 @@
-# Kometa People Images - Transparent (transparent) - M (1037 Images)
+# Kometa People Images - Transparent (transparent) - M (1038 Images)
 ![Grid](grid.jpg)
 
 * [M'laah Kaur Singh](https://raw.githubusercontent.com/Kometa-Team/People-Images-transparent/master/M/Images/M%27laah%20Kaur%20Singh.png)
@@ -771,6 +771,7 @@
 * [Michael Rapaport](https://raw.githubusercontent.com/Kometa-Team/People-Images-transparent/master/M/Images/Michael%20Rapaport.png)
 * [Michael Reid MacKay](https://raw.githubusercontent.com/Kometa-Team/People-Images-transparent/master/M/Images/Michael%20Reid%20MacKay.png)
 * [Michael Ritchie](https://raw.githubusercontent.com/Kometa-Team/People-Images-transparent/master/M/Images/Michael%20Ritchie.png)
+* [Michael Robison](https://raw.githubusercontent.com/Kometa-Team/People-Images-transparent/master/M/Images/Michael%20Robison.png)
 * [Michael Rooker](https://raw.githubusercontent.com/Kometa-Team/People-Images-transparent/master/M/Images/Michael%20Rooker.png)
 * [Michael Rouse](https://raw.githubusercontent.com/Kometa-Team/People-Images-transparent/master/M/Images/Michael%20Rouse.png)
 * [Michael Shamberg](https://raw.githubusercontent.com/Kometa-Team/People-Images-transparent/master/M/Images/Michael%20Shamberg.png)

diff --git a/D/README.md b/D/README.md
@@ -1,4 +1,4 @@
-# Kometa People Images - Transparent (transparent) - D (707 Images)
+# Kometa People Images - Transparent (transparent) - D (708 Images)
 ![Grid](grid.jpg)
 
 * [D. David Morin](https://raw.githubusercontent.com/Kometa-Team/People-Images-transparent/master/D/Images/D.%20David%20Morin.png)
@@ -249,6 +249,7 @@
 * [David Anders](https://raw.githubusercontent.com/Kometa-Team/People-Images-transparent/master/D/Images/David%20Anders.png)
 * [David Anderson](https://raw.githubusercontent.com/Kometa-Team/People-Images-transparent/master/D/Images/David%20Anderson.png)
 * [David Andrews](https://raw.githubusercontent.com/Kometa-Team/People-Images-transparent/master/D/Images/David%20Andrews.png)
+* [David Anselmo](https://raw.githubusercontent.com/Kometa-Team/People-Images-transparent/master/D/Images/David%20Anselmo.png)
 * [David Anthony Buglione](https://raw.githubusercontent.com/Kometa-Team/People-Images-transparent/master/D/Images/David%20Anthony%20Buglione.png)
 * [David Arquette](https://raw.githubusercontent.com/Kometa-Team/People-Images-transparent/master/D/Images/David%20Arquette.png)
 * [David Attenborough](https://raw.githubusercontent.com/Kometa-Team/People-Images-transparent/master/D/Images/David%20Attenborough.png)

diff --git a/E/README.md b/E/README.md
@@ -1,4 +1,4 @@
-# Kometa People Images - Transparent (transparent) - E (394 Images)
+# Kometa People Images - Transparent (transparent) - E (395 Images)
 ![Grid](grid.jpg)
 
 * [E.G. Marshall](https://raw.githubusercontent.com/Kometa-Team/People-Images-transparent/master/E/Images/E.G.%20Marshall.png)
@@ -380,6 +380,7 @@
 * [Evanna Lynch](https://raw.githubusercontent.com/Kometa-Team/People-Images-transparent/master/E/Images/Evanna%20Lynch.png)
 * [Eve Arden](https://raw.githubusercontent.com/Kometa-Team/People-Images-transparent/master/E/Images/Eve%20Arden.png)
 * [Eve Best](https://raw.githubusercontent.com/Kometa-Team/People-Images-transparent/master/E/Images/Eve%20Best.png)
+* [Eve Harlow](https://raw.githubusercontent.com/Kometa-Team/People-Images-transparent/master/E/Images/Eve%20Harlow.png)
 * [Eve Myles](https://raw.githubusercontent.com/Kometa-Team/People-Images-transparent/master/E/Images/Eve%20Myles.png)
 * [Eve Plumb](https://raw.githubusercontent.com/Kometa-Team/People-Images-transparent/master/E/Images/Eve%20Plumb.png)
 * [Ever Anderson](https://raw.githubusercontent.com/Kometa-Team/People-Images-transparent/master/E/Images/Ever%20Anderson.png)
